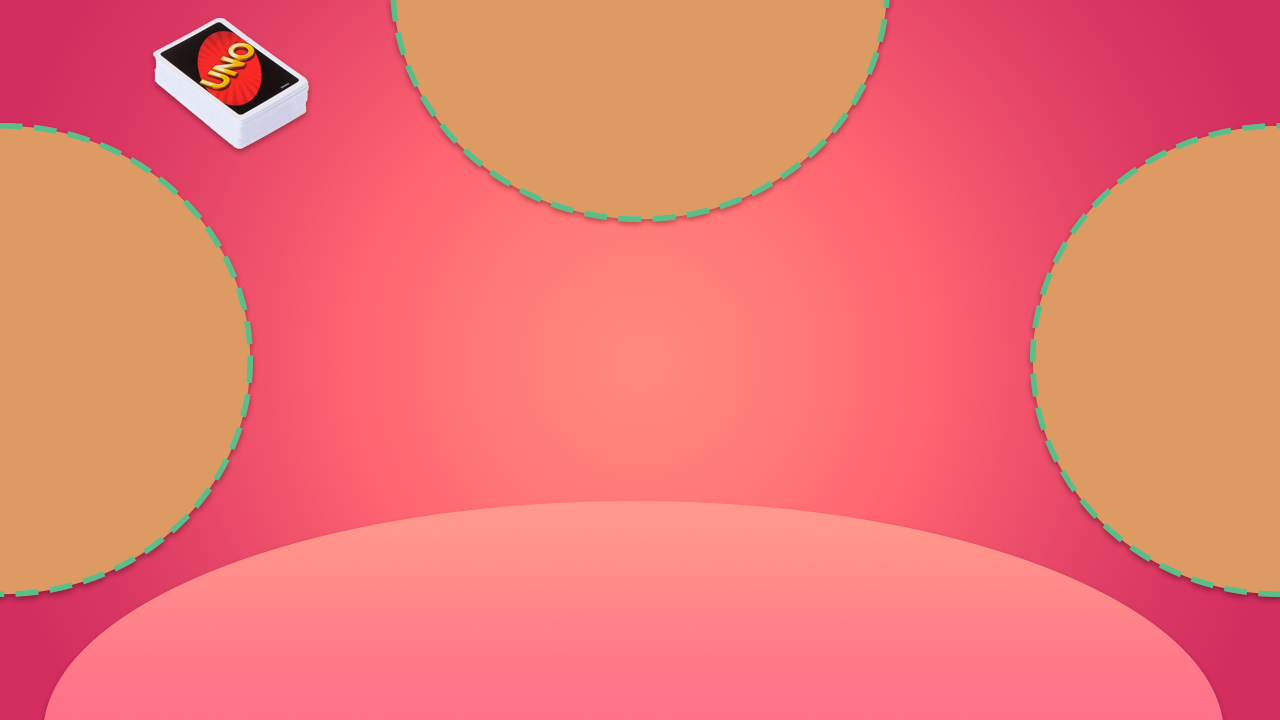
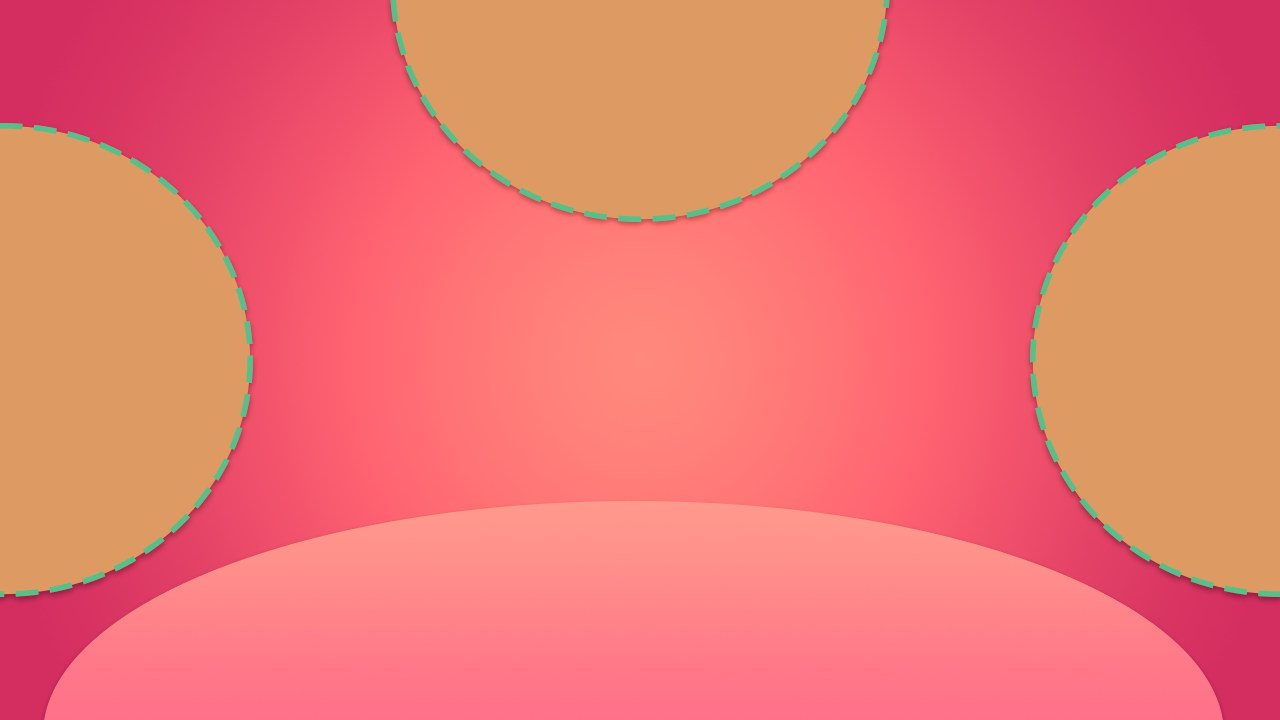
i made it pretty, now wild cards and so on

Changed region(s): [[0.0938, 0.0306, 0.25, 0.2139]]

diff --git a/screens/main_screen.py b/screens/main_screen.py
@@ -12,6 +12,7 @@ from client.networking import Networking
 from screens.abc_screen import Screen
 from utilities.card_utility import card_image
 from utilities.image_utility import load_image
+from utilities.text_utility import truncate
 
 
 class EventGroup(pygame.sprite.Group):
@@ -29,42 +30,60 @@ class UserInfo(pygame.sprite.Sprite):
         super().__init__(*groups)
         self.networking = networking
         self.user_index = user_index
-        self.font = pygame.freetype.Font('../assets/fonts/Roboto-Regular.ttf', 20)
-        self.font.fgcolor = pygame.color.Color('White')
-        self.font.bgcolor = pygame.color.Color('Black')
-        self.image = pygame.surface.Surface((200, 100), pygame.SRCALPHA, 32)
+        self.name_font = pygame.freetype.Font('../assets/fonts/Roboto-Regular.ttf', 20)
+        self.name_font.fgcolor = pygame.color.Color('White')
+        self.cards_amount_font = pygame.freetype.Font('../assets/fonts/Roboto-Regular.ttf', 20)
+        self.cards_amount_font.fgcolor = pygame.color.Color('Black')
+        # self.font.bgcolor = pygame.color.Color('Black')
+        self._background = load_image('images/player_info.png')
+        self._active_background = load_image('images/player_info_active.png')
+        size = self._background.get_width() + 100, self._background.get_height()
+        self.image = Surface(size, pygame.SRCALPHA, 32)
         self.image.convert_alpha()
-        self.rect = self.image.get_rect()
-        self.rect.x = x
-        self.rect.y = y
+        self.rect = pygame.rect.Rect(x, y, *size)
 
     def update(self):
-        if self.networking.current_game.cur_user_index == self.user_index:
-            self.font.bgcolor = pygame.color.Color('BLUE')
-        else:
-            self.font.bgcolor = pygame.color.Color('Black')
         self.image.fill((0, 0, 0, 0))
-        self.font.render_to(self.image, (0, 0),
-                            self.networking.current_game.users[self.user_index].name)
+        if self.networking.current_game.cur_user_index == self.user_index:
+            self.image.blit(self._active_background, (0, 0))
+        else:
+            self.image.blit(self._background, (0, 0))
+        self.name_font.render_to(self.image, (5, 102),
+                                 truncate(self.networking.current_game.users[self.user_index].name))
+        self.cards_amount_font.render_to(self.image, (110, 102),
+                                         str(len(self.networking.current_game.users[
+                                                     self.user_index].deck.cards)))
 
 
 class CardGiver(pygame.sprite.Sprite):
     def __init__(self, x: int, y: int, networking: Networking, *groups: AbstractGroup):
         super().__init__(*groups)
         self.networking = networking
-        self.rect = pygame.rect.Rect(x, y, 150, 150)
-        self.image = Surface((150, 150))
-        pygame.draw.rect(self.image, (0, 0, 0), self.rect, 1)
+        self._active = load_image('images/deck_active.png')
+        self._non_active = load_image('images/deck.png')
+        self.image = self._active
+        self.rect = self.image.get_rect()
+        self.is_active = False
+        self.rect.x = x
+        self.rect.y = y
 
     def handle_events(self, events):
         for event in events:
             match event.type:
                 case pygame.MOUSEBUTTONDOWN:
-                    if self.rect.collidepoint(pygame.mouse.get_pos()):
+                    if self.is_active:
                         game = self.networking.current_game
                         if game.cur_user_index == self.networking.user_id(
                                 self.networking.get_user_from_game()):
                             self.networking.get_card()
+
+    def update(self, *args: Any, **kwargs: Any) -> None:
+        if self.rect.collidepoint(pygame.mouse.get_pos()):
+            self.image = self._active
+            self.is_active = True
+        else:
+            self.is_active = False
+            self.image = self._non_active
 
 
 class Cards(pygame.sprite.Sprite):
@@ -191,7 +210,7 @@ class MainScreen(Screen):
         self._all_cards = EventGroup()
         self._game_deck = pygame.sprite.Group()
 
-        self._card_giver = CardGiver(100, 100, self.networking, self._miscellaneous_group)
+        self._card_giver = CardGiver(175, 20, self.networking, self._miscellaneous_group)
 
         self._player_indexes = _PLAYER_INDEXES[self.networking.current_game.users.index(
             self.networking.get_user_from_game())]

diff --git a/utilities/text_utility.py b/utilities/text_utility.py
@@ -10,3 +10,10 @@ def text_on_center(surface: pygame.surface.Surface, font: pygame.freetype.Font, 
     center_rect(surface, text_rect)
     text_rect.centery = y
     font.render_to(surface, text_rect, text)
+
+
+def truncate(text: str, max_len: int = 7, ending: str = '...') -> str:
+    if len(text) > max_len:
+        return text[:max_len - len(ending)] + ending
+    else:
+        return text
